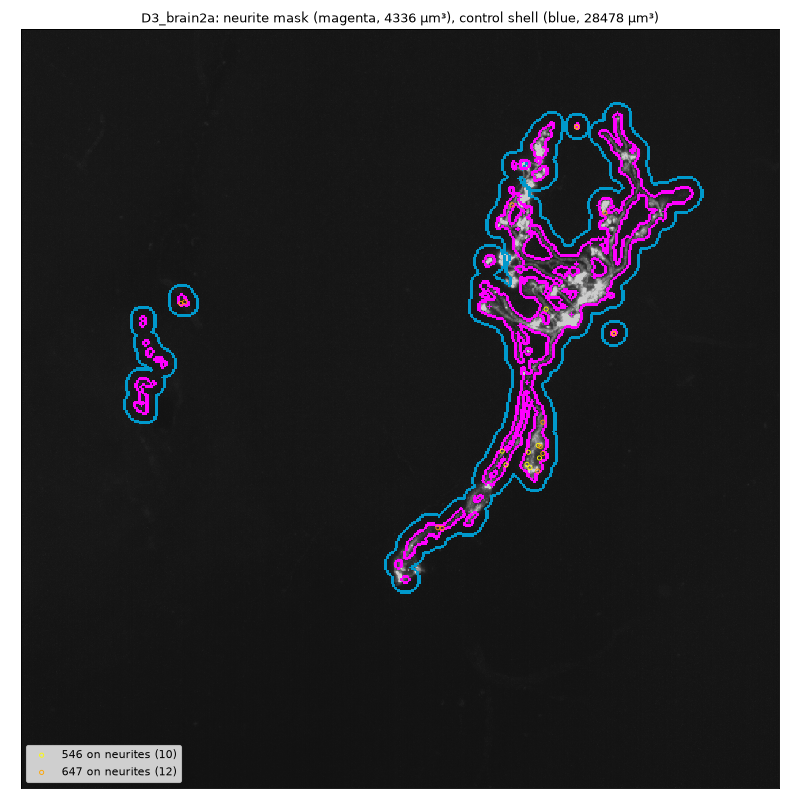
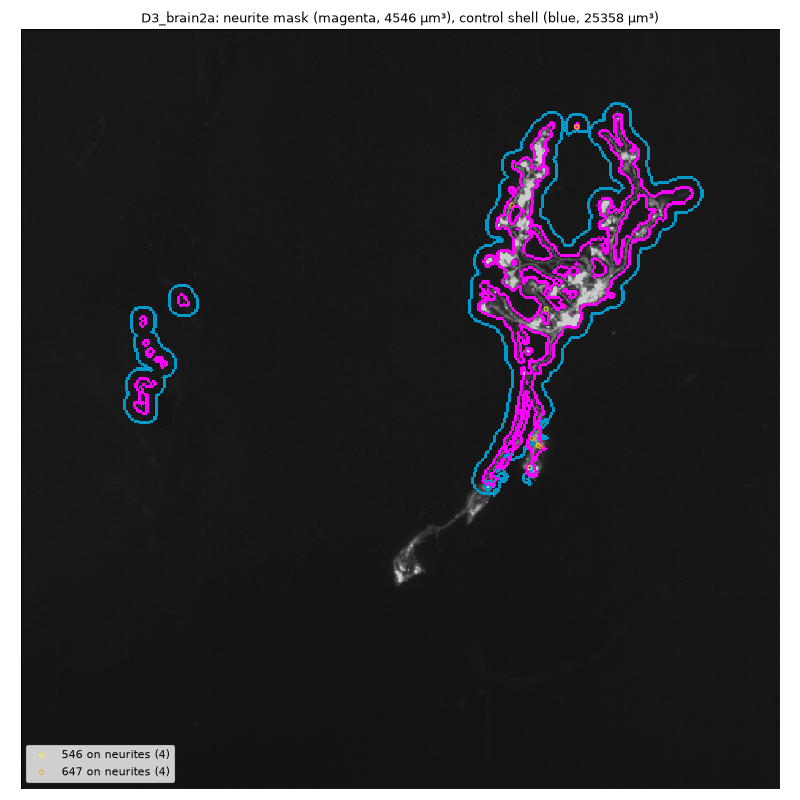
Measure neurites against neuropil, away from the soma layer
- Only counted somata (with a nucleus, not in exclude_cells) are removed from
  the neurite mask; nucleus-free cells stay, as most were dendrites.
- Membrane within nucleus_margin_um (2 um) of any Cellpose nucleus is left out
  of both the neurite mask and the control shell. Dim labelled somata that the
  segmentation misses (C1 at 25-38 um depth) were being counted as neurite:
  C1 546 spots on neurites drop from 200 to 57. Neurites are now compared with
  neuropil rather than with soma-layer tissue.
- QC figures for C1 and D3.

diff --git a/workflow/scripts/neurites.py b/workflow/scripts/neurites.py
@@ -2,13 +2,20 @@
 
 1. Neurite mask, at full resolution (processes are 0.2-1 um, below the
    segmentation grid): the membrane outline test from segment.py (global
-   threshold and local contrast, same parameters), minus the somata (plus a
-   margin) and minus fragments smaller than min_fragment_um3. The volume is
-   processed in z slabs so deep stacks fit in memory.
+   threshold and local contrast, same parameters), minus the counted somata
+   (plus a margin) and minus fragments smaller than min_fragment_um3. Counted
+   somata are those with a nucleus not listed in exclude_cells; nucleus-free
+   cells stay in the mask, as on review most were dendrites. Membrane within
+   nucleus_margin_um of any Cellpose nucleus is removed too: neuropil has no
+   cell bodies, so this drops labelled somata the segmentation missed (dim
+   ones in the soma layer), at the cost of the first micron or two of each
+   primary neurite. The volume is processed in z slabs so deep stacks fit in
+   memory.
 2. Chance level: in neuropil, labelled processes are packed among unlabelled
    ones, so a spot on a neurite voxel could belong to a neighbour. The control
-   is the density in a shell of tissue shell_um around the mask (no somata, no
-   other membrane signal), computed on the segmentation grid. Enrichment is
+   is the density in a shell of tissue shell_um around the mask (no somata,
+   nothing near a nucleus, no other membrane signal), computed on the
+   segmentation grid, so neurites are compared with neuropil. Enrichment is
    neurite density / shell density; ~1 means neurites hold no more spots than
    the tissue they run through.
 
@@ -64,11 +71,19 @@ median = np.median(sample)
 mad = 1.4826 * np.median(np.abs(sample - median))
 del sample
 
-soma = tifffile.imread(snakemake.input.soma) > 0
+cells = pd.read_csv(snakemake.input.table)
+counted = cells.cell_id[cells.has_nucleus & ~cells.cell_id.isin(p.exclude_cells)]
+soma = np.isin(tifffile.imread(snakemake.input.soma), counted)
+log.info("removing %d counted somata of %d cells", len(counted), len(cells))
 r = np.floor(np_["soma_margin_um"] / vox_grid).astype(int)
 zz, yy, xx = np.ogrid[-r[0]:r[0] + 1, -r[1]:r[1] + 1, -r[2]:r[2] + 1]
 ball = (zz * vox_grid[0]) ** 2 + (yy * vox_grid[1]) ** 2 + (xx * vox_grid[2]) ** 2 <= np_["soma_margin_um"] ** 2
 soma_zone = ndi.binary_dilation(soma, ball)
+nuclei = tifffile.imread(snakemake.input.nuclei) > 0
+near_nucleus = ndi.distance_transform_edt(~nuclei, sampling=vox_grid) <= np_["nucleus_margin_um"]
+soma_zone |= near_nucleus
+log.info("%.1f%% of the grid is within %s um of a nucleus", 100 * near_nucleus.mean(), np_["nucleus_margin_um"])
+del nuclei, near_nucleus
 
 foreground = np.zeros(shape, bool)
 for core, padded, off in slabs():

diff --git a/README.md b/README.md
@@ -33,7 +33,7 @@ The fourth channel is DAPI staining.
 ## Analysis approach
 1. Determine which voxels map to the neuron of interest (somata only so far; neurites are not yet included). The membrane channel is thresholded (globally, and relative to the brightest membrane nearby, to cut out-of-focus glow), filled, and stripped of neurites by a morphological opening. [Cellpose](https://github.com/MouseLand/cellpose) segments nuclei in DAPI, and a nucleus whose core lies inside the filled membrane belongs to a labelled neuron; each soma is the filled membrane nearest its nucleus. Only somata with a nucleus are counted. Soma-sized filled objects without a nucleus are kept in `cells.csv` with `has_nucleus = False` for inspection (if thick and evenly filled with membrane signal), but are left out of `results/tables/spot_counts.csv`: on visual review of 6 samples, 4 of 14 were somata and the rest were dendrites, axons, trachea or fat globules. Somata with a nucleus that review showed are not neurons are listed under `exclude_cells` in `config/config.yaml` and dropped from the same table. Line A is left out of the soma counts (`exclude_soma_lines`): its DAPI stain failed, with no nuclei in the labelled somata of any brain checked. Its neuron type, ER3p_a/b, is also labelled by line B. Line A's neurite measurements are kept. Per-sample QC figures are written to `results/figures/segmentation/`.
 2. Localize the mRNAs. [Spotiflow](https://github.com/weigertlab/spotiflow)'s pretrained 3D smFISH model proposes puncta, and candidates whose peak above the local background is below a per-sample threshold are dropped. Imaging conditions differ between brains, so the threshold is set for each sample and channel at the valley between the noise and puncta peaks of its amplitude histogram (`spot_filter` in `config/config.yaml`, where it can be overridden). Spotiflow was chosen over a Laplacian-of-Gaussian detector (Big-FISH) because it ignores the defocus rings around bright puncta, which Big-FISH picks up. RS-FISH was not benchmarked. Per-sample QC plots are written to `results/figures/spots/`.
-3. Colocalize the mRNAs with the neuron voxels to determine how many mRNAs are in each cell type. Each spot in a soma is tagged nuclear or cytoplasmic, or unknown in a soma without a detected nucleus. Neurites are measured separately, as one compartment per sample: a full-resolution membrane mask minus the somata gives the spot density in the line's processes, compared with the density in a 1–3 µm shell of surrounding tissue (`results/tables/neurite_counts.csv`, QC in `results/figures/neurites/`). Enrichment near 1 means the neurites hold no more spots than the neuropil they run through. A labelled soma the segmentation misses is counted as neurite.
+3. Colocalize the mRNAs with the neuron voxels to determine how many mRNAs are in each cell type. Each spot in a soma is tagged nuclear or cytoplasmic, or unknown in a soma without a detected nucleus. Neurites are measured separately, as one compartment per sample: a full-resolution membrane mask minus the counted somata (with a nucleus) gives the spot density in the line's processes, compared with the density in a 1–3 µm shell of surrounding tissue (`results/tables/neurite_counts.csv`, QC in `results/figures/neurites/`). Membrane within 2 µm of any DAPI nucleus is left out of both, since neuropil has no cell bodies: this keeps dim somata the segmentation misses out of the neurite count, at the cost of the first micron or two of each primary neurite. Enrichment near 1 means the neurites hold no more spots than the neuropil they run through.
 ## Inspecting results
 - `snakemake data/processed/<sample>/inspect` writes Fiji hyperstacks for one sample: the whole field on the segmentation grid, and full-resolution crops (with PNGs) of each nucleus-free cell. Channels are membrane, DAPI, each probe, soma and nucleus labels, soma outlines, and kept and rejected spot candidates per probe. It runs spot detection for the sample if needed.
 - `snakemake results/figures/<sample>_example_plane.png` draws the example figure (raw channels with detected and rejected spots in one region); the region is set under `example_plane` in `config/config.yaml`.
